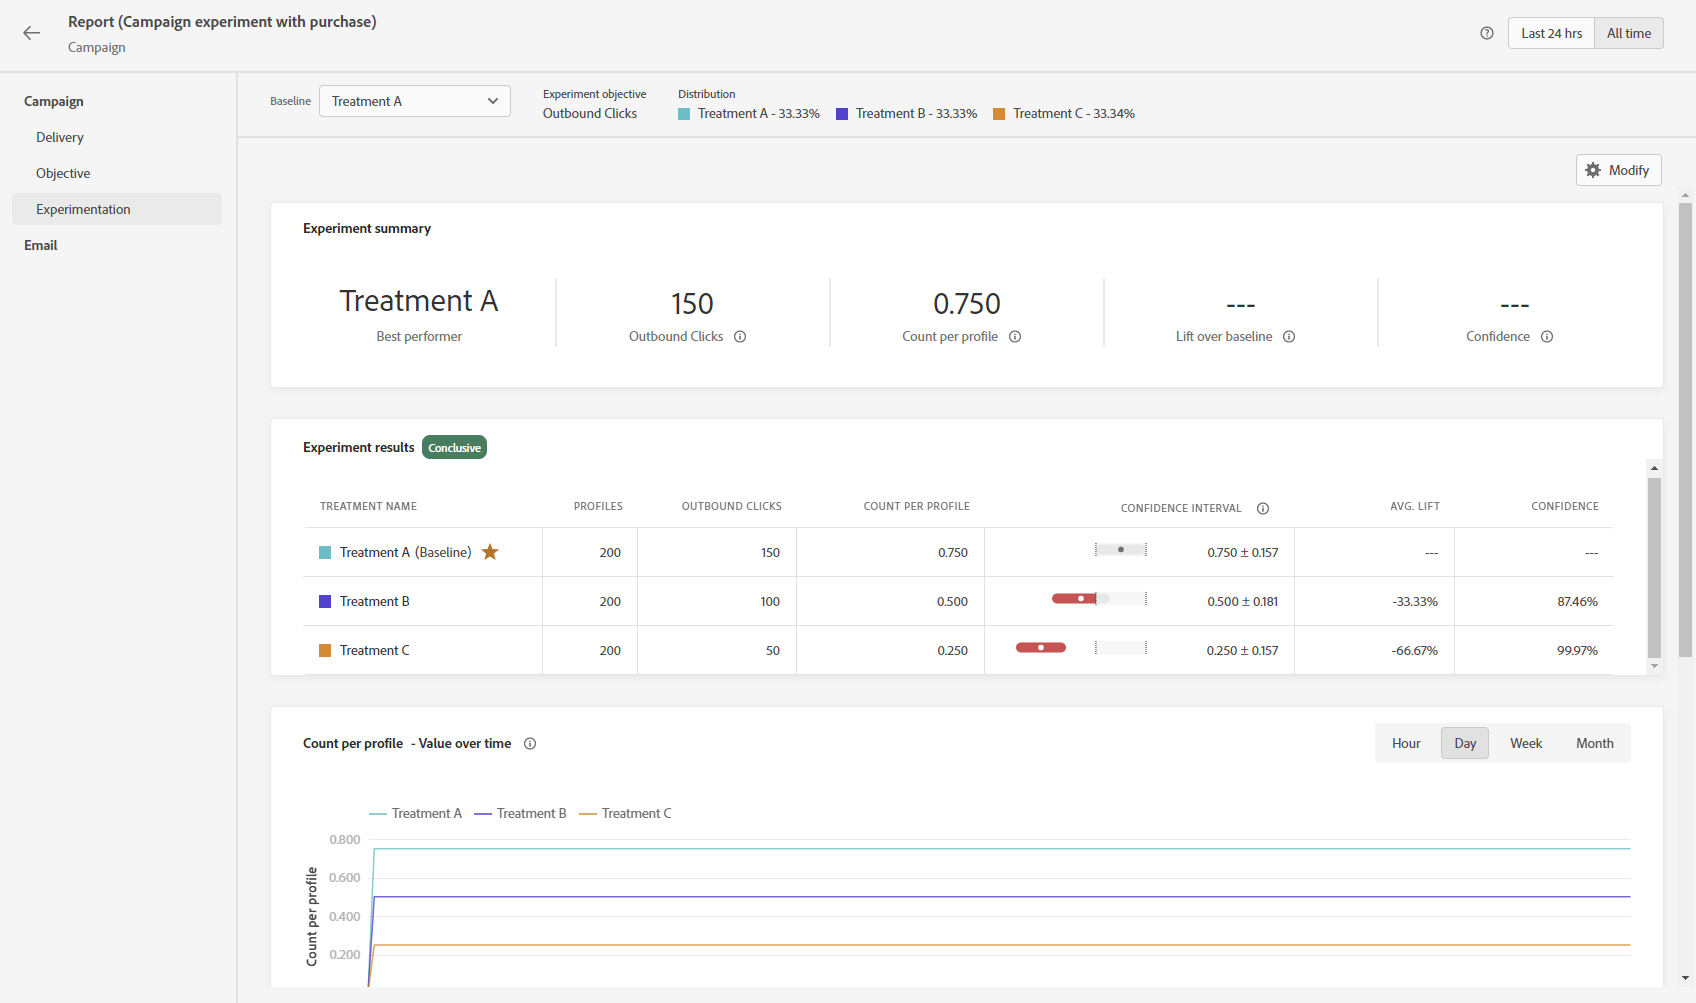
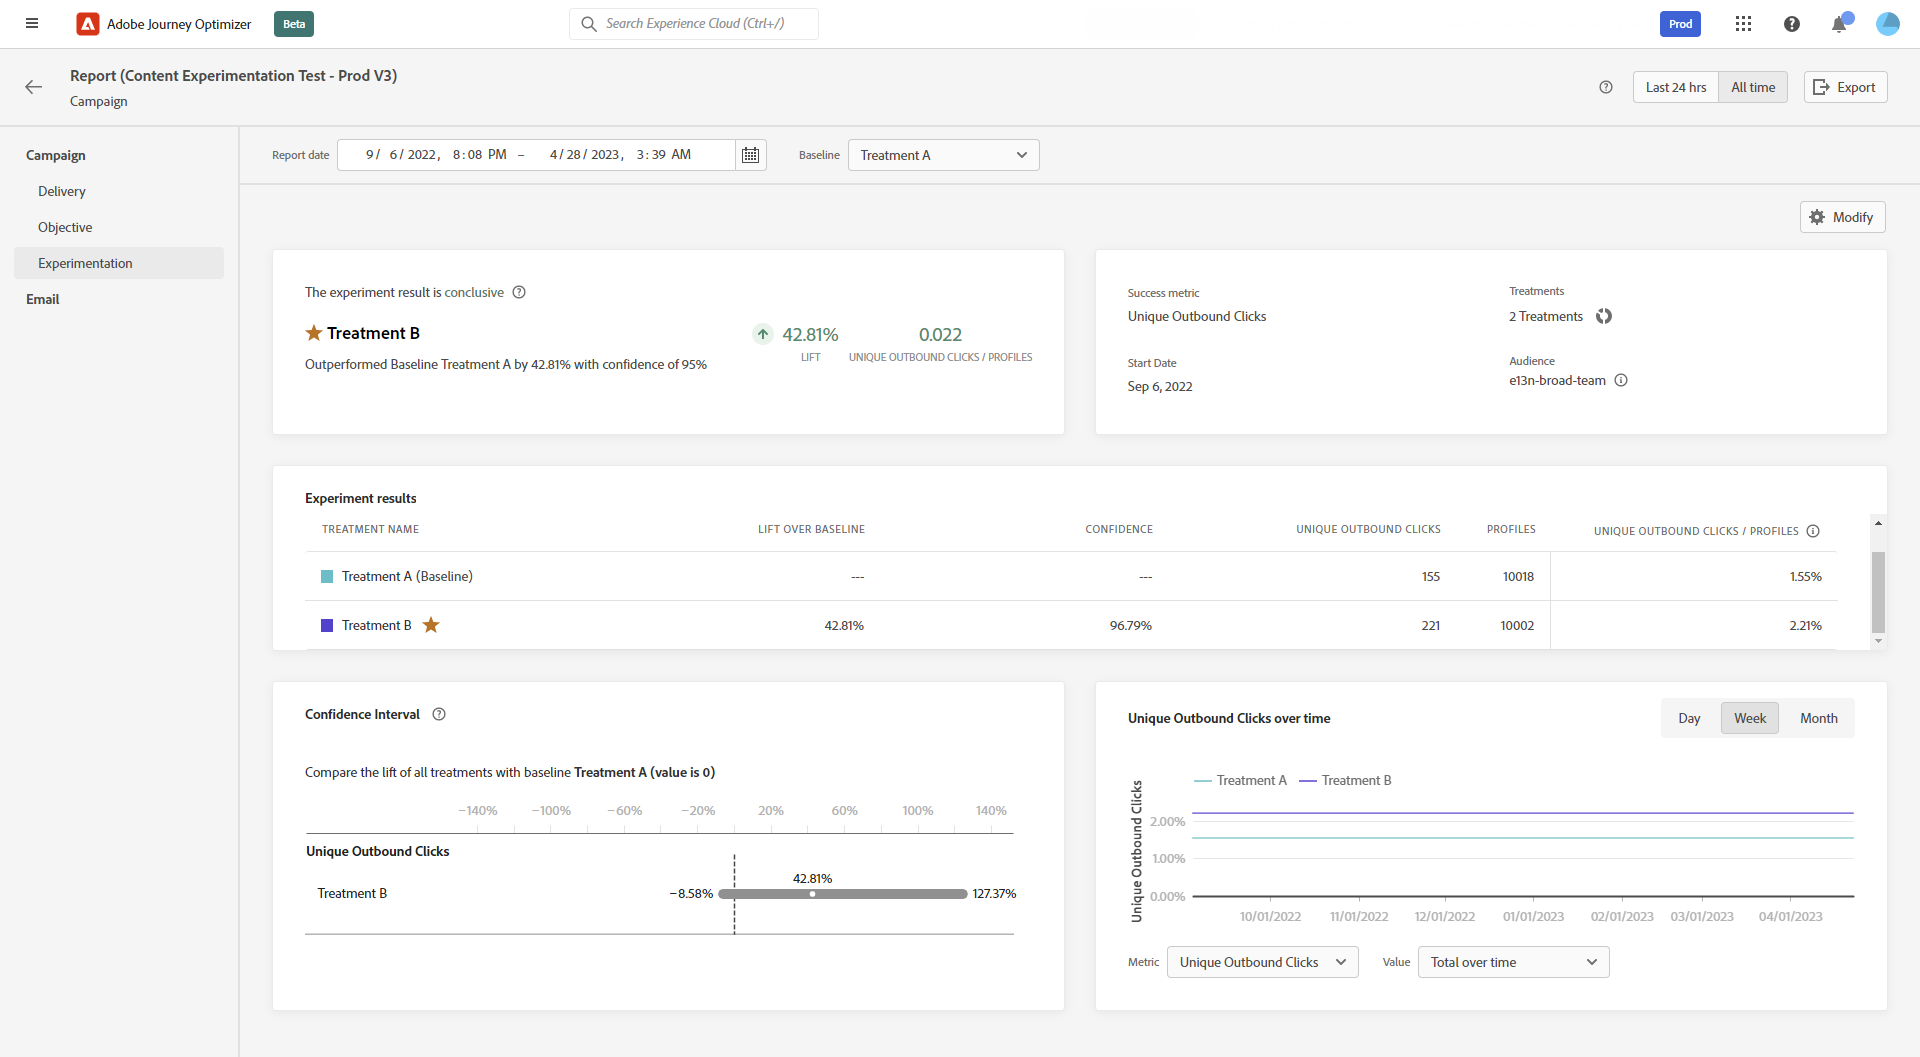
update report

diff --git a/help/using/reports/campaign-global-report.md b/help/using/reports/campaign-global-report.md
@@ -73,21 +73,17 @@ The **[!UICONTROL Experiment result]** widget details the performance of each va
 
 The table presents the following metrics:
 
-* **[!UICONTROL Profiles]**: Number of profiles targeted for this treatment.
-
-*  **[!UICONTROL Outbound clicks]**: Total count of clicks across outbound channels.
-
-*  **[!UICONTROL Count per profile]**: Total value of the Experiment objective metric divided by the number of profiles.
-
-*  **[!UICONTROL Confidence interval]**: Percentage difference in performance between the baseline and the best performing treatment. [Learn more](../campaigns/experiment-calculations.md#confidence-intervals).
-
-*  **[!UICONTROL Average lift]**: Percentage improvement in conversion rate of a given treatment over the baseline. [Learn more](../campaigns/experiment-calculations.md#understand-lift)
+* **[!UICONTROL Lift over baseline]**: Measure of the percentage improvement in conversion rate of a given treatment over the baseline.
 
 *  **[!UICONTROL Confidence]**: Evidence that a given treatment is the same as the baseline treatment. [Learn more](../campaigns/experiment-calculations.md#understand-confidence)
 
-The Count per profile - Value over time or Daily value details 
+*  **[!UICONTROL Unique outbound clicks]**: Total count of clicks across outbound channels.
 
-Profiles - Value over time or Daily value
+* **[!UICONTROL Profiles]**: Number of profiles targeted for this treatment.
+
+*  **[!UICONTROL Unique outbound clicks/profiles]**: Total value of the Success metric, previously selected when creating your Experiments, divided by the number of profiles.
+
+The **[!UICONTROL Confidence interval]** graph measures uncertainty around improvement. It details the percentage difference in performance between the baseline and the best performing treatment. [Learn more](../campaigns/experiment-calculations.md#confidence-intervals). 
 +++
 
 For a deep-dive in these results and how to interpret them, refer to [this page](../campaigns/get-started-experiment.md#interpret-results).
